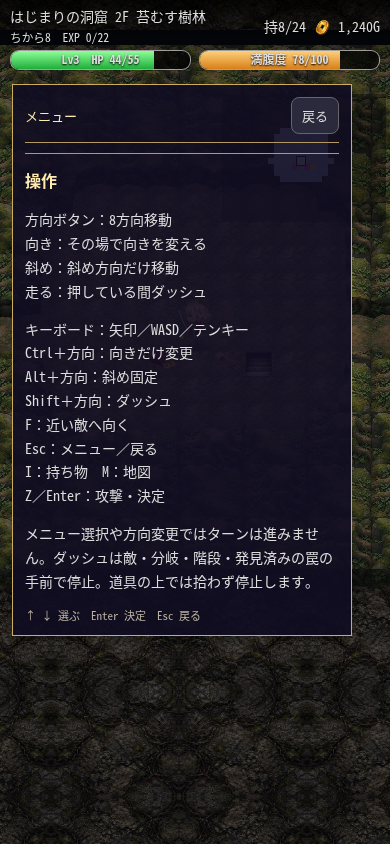
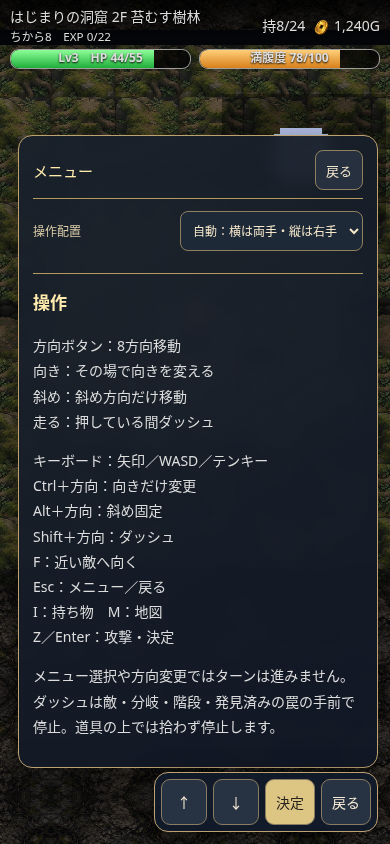
Design responsive two-hand and left/right one-hand controls and thumb-accessible menus

diff --git a/assets/ergonomic-ui.css b/assets/ergonomic-ui.css
@@ -1,0 +1,22 @@
+/* Warm metal, ink glass and large touch targets across all exploration layouts. */
+body{--ink:rgba(18,24,37,.88);--gold:#bca271;--glow:#f5df9d;--key:clamp(46px,6.3dvh,54px);--gap:5px;--pad:calc(var(--key)*3 + var(--gap)*2);--safe-bottom:max(12px,env(safe-area-inset-bottom));font-family:system-ui,-apple-system,"Noto Sans JP",sans-serif}
+.btn,#moveModes button{background:linear-gradient(145deg,rgba(51,59,72,.9),rgba(16,23,35,.91));color:#f7edd9;border:1px solid var(--gold);box-shadow:inset 0 1px 0 #ffffff18,0 3px 10px #0005;border-radius:12px;font-family:inherit;transition:background .08s,border-color .08s,transform .08s}
+.btn.on,#moveModes button:active{background:#78683d;border-color:#ffedac;transform:translateY(1px)}
+#moveModes button[aria-pressed=true]{background:#e3ca85;color:#29251d;border-color:#fff0b5;box-shadow:0 0 0 2px #e6c56c30}
+#pad{grid-template-columns:repeat(3,var(--key));grid-template-rows:repeat(3,var(--key));gap:var(--gap);bottom:calc(var(--safe-bottom) + 56px)}#pad .btn{width:var(--key);height:var(--key);font-size:25px}#pad .wait{font-size:13px;border-radius:12px}
+#act{bottom:calc(var(--safe-bottom) + 100px)}#atk{width:68px;height:68px;border-radius:24px;background:linear-gradient(145deg,#785137ed,#332b28ed);border:1px solid #e6c58e;font-size:16px;letter-spacing:.12em;box-shadow:inset 0 1px #fff4,0 4px 16px #0008}
+#moveModes{bottom:calc(var(--safe-bottom) + 66px + var(--pad));gap:5px}#moveModes button{min-width:46px;min-height:40px;font-size:12px}#controlHint{font-size:10px;bottom:45px;color:#dfd0ab}
+#lft{bottom:var(--safe-bottom);gap:5px;display:flex;flex-direction:row}#lft .btn,#lft #menubtn{width:51px;height:46px;min-height:46px;font-size:11px;border-radius:11px}#lft #bagbtn{font-size:11px}#lft #logbtn{display:none}#pick{color:#f5de99;border-color:#d8bc75}#quick{border-color:#a59882}#lft small{font-size:9px}
+body[data-hand=right] #pad,body[data-hand=right] #moveModes,body[data-hand=right] #lft{left:auto;right:max(12px,env(safe-area-inset-right))}body[data-hand=right] #act{left:auto;right:calc(max(12px,env(safe-area-inset-right)) + var(--pad) + 12px)}
+body[data-hand=left] #pad,body[data-hand=left] #moveModes,body[data-hand=left] #lft{right:auto;left:max(12px,env(safe-area-inset-left))}body[data-hand=left] #act{right:auto;left:calc(max(12px,env(safe-area-inset-left)) + var(--pad) + 12px)}
+body[data-hand=both] #pad,body[data-hand=both] #moveModes{right:auto;left:max(16px,env(safe-area-inset-left))}body[data-hand=both] #act{left:auto;right:max(24px,env(safe-area-inset-right));bottom:calc(var(--safe-bottom) + 108px)}body[data-hand=both] #atk{width:80px;height:80px}body[data-hand=both] #lft{left:auto;right:max(16px,env(safe-area-inset-right))}
+.layout-choice{display:flex;align-items:center;justify-content:space-between;gap:12px;padding:12px 0;font-size:12px;color:#dbcca8}.layout-choice select{min-height:40px;max-width:75%;background:#1e2938;color:#f3e6c9;border:1px solid #8f805f;border-radius:8px;padding:4px 8px;font-family:inherit;font-size:12px}
+#gameMenu,#cfg,#hist{background:linear-gradient(150deg,#19212bf5,#111826ee);border:1px solid var(--gold);border-radius:14px;box-shadow:0 16px 48px #0007;backdrop-filter:blur(8px);font-family:inherit}#gameMenu{padding:14px;top:auto;bottom:calc(var(--safe-bottom) + 64px);max-height:calc(100dvh - 150px);width:min(360px,calc(100vw - 24px));scroll-padding:12px}.menu-row{min-height:44px;border-radius:7px;font-family:inherit;font-size:15px;letter-spacing:.04em}.menu-row.selected{background:linear-gradient(90deg,#e0c57e,#e8d9ab);color:#29261f;border-color:#f3dfa1}#gameMenu header{font-size:15px}#gameMenu footer{display:none}#menuInfo{line-height:1.8;font-size:14px}#menuInfo h2{font-size:17px}
+body[data-hand=right] #gameMenu{left:auto;right:max(12px,env(safe-area-inset-right))}body[data-hand=left] #gameMenu{right:auto;left:max(12px,env(safe-area-inset-left))}
+#menuDock{display:none;position:fixed;z-index:20;bottom:var(--safe-bottom);gap:6px;padding:6px;background:#111b2bed;border:1px solid var(--gold);border-radius:14px;box-shadow:0 5px 24px #0008}#menuDock button{min-width:46px;height:46px;padding:0 10px;background:#273342;color:#f6ebd6;border:1px solid #8a7c62;border-radius:9px;font-family:inherit;font-size:14px;touch-action:manipulation}#menuDock .confirm{background:#ddc684;color:#28241d}body[data-hand=right] #menuDock,body[data-hand=both] #menuDock{right:max(12px,env(safe-area-inset-right))}body[data-hand=left] #menuDock{left:max(12px,env(safe-area-inset-left))}
+body:has(#gameMenu:not([hidden])) #menuDock,body:has(#bag:not([hidden])) #menuDock,body:has(#cfg:not([hidden])) #menuDock,body:has(#hist:not([hidden])) #menuDock,body:has(#stairsPrompt:not([hidden])) #menuDock{display:flex}
+body:has(#cfg:not([hidden])) #pad,body:has(#cfg:not([hidden])) #act,body:has(#cfg:not([hidden])) #lft,body:has(#hist:not([hidden])) #pad,body:has(#hist:not([hidden])) #act,body:has(#hist:not([hidden])) #lft,body:has(#stairsPrompt:not([hidden])) #pad,body:has(#stairsPrompt:not([hidden])) #act,body:has(#stairsPrompt:not([hidden])) #lft,body:has(#stairsPrompt:not([hidden])) #moveModes{visibility:hidden}
+#bag{bottom:76px}#bag .phead{border-color:#aa9468}#bag .sm,#cfg .sm,#hist .sm,#gameMenu .sm{min-height:40px;background:#27303e;border-color:#8f805f;color:#f1e5cd;border-radius:8px}#bag .tab{border-radius:6px;min-height:38px}#bag .tab.on{background:#d8c184;color:#27231c;border-color:#f4e1aa}#bagDetail .acts button{min-height:44px;background:#273342;border-color:#9c8966;color:#f5e7cb}#bagDetail .acts button.chosen{background:#dfc785;color:#24221c}
+#cfg,#hist{top:76px;bottom:82px}#stairsPrompt{bottom:90px;border-radius:14px;background:#161f2af5;border-color:var(--gold)}#stairsPrompt button{min-height:46px}
+@media(orientation:landscape){body{--key:44px}#gameMenu{max-height:calc(100dvh - 126px);bottom:78px}#gameMenu header .sm{min-height:36px;padding:4px 10px}.layout-choice{padding:7px 0}.menu-row{min-height:40px;padding:7px 12px}#cfg,#hist{top:48px}#bag{padding-bottom:0}#bag .phead{padding:5px 10px}#bag .tabs{padding:4px 10px}#bag .tab{min-height:32px}.bag-help{display:none}}
+@media(max-width:360px){body{--key:46px}#atk{width:58px;height:58px}#lft .btn,#lft #menubtn{width:46px}}

diff --git a/assets/ergonomic-ui.js b/assets/ergonomic-ui.js
@@ -1,0 +1,29 @@
+// Hand preference is independent of screen orientation and saved separately.
+let handPreference='auto';
+try{const saved=localStorage.getItem('fushigi_hand_layout_v1');if(['auto','both','right','left'].includes(saved))handPreference=saved;}catch(_){}
+function applyHandLayout(){
+ holdStop();const mode=handPreference==='auto'?(innerWidth>innerHeight?'both':'right'):handPreference;
+ document.body.dataset.hand=mode;document.body.dataset.handPreference=handPreference;
+ const select=document.getElementById('handLayout');if(select)select.value=handPreference;
+}
+function chooseHandLayout(value){if(!['auto','both','right','left'].includes(value))return;handPreference=value;try{localStorage.setItem('fushigi_hand_layout_v1',value);}catch(_){}applyHandLayout();}
+function touchMenuBack(){if(stairsOpen){chooseStairs(false);return;}if(whOpen){closeWh();render();return;}uiBack();}
+function touchMenuKey(key){
+ if(stairsOpen){if(key==='Enter')chooseStairs(stairsChoice===0);else {stairsChoice=1-stairsChoice;updateStairsChoice();}return;}
+ if(menuOpen&&!$('menuInfo').hidden){if(key==='Enter')$('menuGroundAction')?.click();else $('gameMenu').scrollBy({top:key==='ArrowUp'?-120:120,behavior:'smooth'});return;}
+ if(bagOpen){bagKey(key);return;}
+ if(cfgOpen){const buttons=[...$('cfgList').querySelectorAll('button')],i=buttons.indexOf(document.activeElement);if(key==='Enter'){if(i>=0)buttons[i].click();else buttons[0]?.focus();}else buttons[(i+(key==='ArrowDown'?1:buttons.length-1)+buttons.length)%buttons.length]?.focus();return;}
+ if(histOpen){$('histList').scrollBy({top:key==='ArrowUp'?-150:150,behavior:'smooth'});return;}
+ controlsKey({key,preventDefault(){}});
+ const selected=$('menuList').querySelector('.selected');selected?.scrollIntoView({block:'nearest'});
+}
+if(typeof document!=='undefined'&&document.body){
+ const header=$('gameMenu').querySelector('header');
+ header.insertAdjacentHTML('afterend','<label class="layout-choice">操作配置<select id="handLayout" aria-label="操作配置"><option value="auto">自動：横は両手・縦は右手</option><option value="both">両手</option><option value="right">右片手</option><option value="left">左片手</option></select></label>');
+ $('handLayout').onchange=ev=>chooseHandLayout(ev.target.value);
+ const dock=document.createElement('nav');dock.id='menuDock';dock.setAttribute('aria-label','メニュー操作');dock.innerHTML='<button data-nav="ArrowUp" aria-label="前を選ぶ">↑</button><button data-nav="ArrowDown" aria-label="次を選ぶ">↓</button><button data-nav="Enter" class="confirm">決定</button><button id="touchBack">戻る</button>';
+ document.body.append(dock);dock.onclick=ev=>{const b=ev.target.closest('button');if(!b)return;if(b.id==='touchBack')touchMenuBack();else touchMenuKey(b.dataset.nav);};
+ $('atk').setAttribute('aria-label','攻撃・決定');
+ document.querySelectorAll('.dp').forEach(b=>{const [x,y]=b.dataset.d.split(',').map(Number);b.setAttribute('aria-label',x||y?({ '-1,-1':'左上','0,-1':'上','1,-1':'右上','-1,0':'左','1,0':'右','-1,1':'左下','0,1':'下','1,1':'右下'}[b.dataset.d]+'へ移動'):'足踏み・向き');});
+ addEventListener('resize',applyHandLayout);applyHandLayout();
+}

diff --git a/fushigi-controls-ui-v1/review.html b/fushigi-controls-ui-v1/review.html
@@ -80,6 +80,7 @@ canvas{display:block;touch-action:none}
 .set{display:flex;align-items:center;gap:10px;padding:12px 10px;border-bottom:1px solid #2a2a3a}
 .set .lab{flex:1;font-size:15px}.set small{color:#99a;font-size:12px}
 </style>
+<link rel="stylesheet" href="assets/ergonomic-ui.css?v=hands-v1">
 <style>#reviewTools{position:fixed;z-index:9;right:12px;top:48px;display:flex;gap:5px;max-width:95vw;padding:5px;background:#140f23bd;border:1px solid #b99751;box-sizing:border-box;overflow-x:auto}#reviewTools select,#reviewTools button{font:12px monospace;color:#f6e9c8;background:#2a2038;border:1px solid #a68b56;padding:7px 5px;touch-action:manipulation}body.menu-visible #reviewTools,body.bag-visible #reviewTools{display:none}@media(orientation:portrait){#reviewTools{top:74px;left:10px;right:10px}}</style></head>
 <body>
 <div id="hud"><span id="where"></span><span id="bagc"></span><div id="bars"><div class="bar"><i id="hpf"></i><b id="hp"></b></div><div class="bar bl" id="blbar"><i id="blf"></i><b id="belly"></b></div></div></div>
@@ -2483,5 +2484,6 @@ boot();
 if (typeof Image !== 'undefined') { ApprovedHero.load(render); HeroActions.load(render); loadDungeonArt(); MonsterSprites.load(render); DungeonExperience.load(render); }
 </script>
 <script src="assets/controls-ui.js?v=controls-v1"></script>
+<script src="assets/ergonomic-ui.js?v=hands-v1"></script>
 <script src="fushigi-experience-v1/review-tools.js"></script></body>
 </html>

diff --git a/index.html b/index.html
@@ -79,6 +79,7 @@ canvas{display:block;touch-action:none}
 .set{display:flex;align-items:center;gap:10px;padding:12px 10px;border-bottom:1px solid #2a2a3a}
 .set .lab{flex:1;font-size:15px}.set small{color:#99a;font-size:12px}
 </style>
+<link rel="stylesheet" href="assets/ergonomic-ui.css?v=hands-v1">
 </head>
 <body>
 <div id="hud"><span id="where"></span><span id="bagc"></span><div id="bars"><div class="bar"><i id="hpf"></i><b id="hp"></b></div><div class="bar bl" id="blbar"><i id="blf"></i><b id="belly"></b></div></div></div>
@@ -2482,5 +2483,6 @@ boot();
 if (typeof Image !== 'undefined') { ApprovedHero.load(render); HeroActions.load(render); loadDungeonArt(); MonsterSprites.load(render); DungeonExperience.load(render); }
 </script>
 <script src="assets/controls-ui.js?v=controls-v1"></script>
+<script src="assets/ergonomic-ui.js?v=hands-v1"></script>
 </body>
 </html>

diff --git a/fushigi-controls-ui-v1/check_hands.py b/fushigi-controls-ui-v1/check_hands.py
@@ -1,0 +1,31 @@
+from pathlib import Path
+import json
+from playwright.sync_api import sync_playwright
+P=Path(__file__).resolve().parent
+report=[]
+with sync_playwright() as p:
+ b=p.chromium.launch(executable_path='/usr/bin/chromium',args=['--no-sandbox'])
+ for name,w,h in [('portrait',390,844),('landscape',844,390),('small',320,568)]:
+  page=b.new_page(viewport={'width':w,'height':h});errors=[];page.on('pageerror',lambda e:errors.append(str(e)))
+  page.goto('http://127.0.0.1:8000/fushigi-controls-ui-v1/review.html');page.wait_for_function('window.ExperienceReview && scene==="dungeon" && typeof chooseHandLayout==="function"')
+  for hand in ['both','right','left']:
+   page.evaluate("ExperienceReview.setup('room')");page.evaluate('(h)=>chooseHandLayout(h)',hand)
+   boxes=page.evaluate("""()=>{const ids=['pad','atk','lft','moveModes'];return Object.fromEntries(ids.map(id=>{const r=document.getElementById(id).getBoundingClientRect();return [id,{x:r.x,y:r.y,w:r.width,h:r.height}]}));}""")
+   for k,r in boxes.items():assert r['x']>=0 and r['y']>=0 and r['x']+r['w']<=w+1 and r['y']+r['h']<=h+1,(name,hand,k,r)
+   assert (boxes['pad']['x']<w/2) if hand in ['left','both'] else (boxes['pad']['x']>w/2-30)
+   page.screenshot(path=str(P/f'{name}-{hand}-layout.png'))
+   page.locator('#menubtn').click();assert page.locator('#gameMenu').is_visible()
+   page.locator('#menuDock [data-nav="ArrowDown"]').click();assert page.evaluate('menuIndex')==1
+   page.locator('#menuDock [data-nav="Enter"]').click();assert page.locator('#menuInfo').is_visible()
+   page.locator('#touchBack').click();page.locator('#menuDock [data-nav="ArrowUp"]').click();page.locator('#menuDock [data-nav="Enter"]').click();assert page.locator('#bag').is_visible()
+   page.screenshot(path=str(P/f'{name}-{hand}-bag.png'))
+   page.locator('#touchBack').click();assert page.locator('#gameMenu').is_visible();page.screenshot(path=str(P/f'{name}-{hand}-menu.png'))
+   page.locator('#touchBack').click();assert not page.evaluate('menuOpen')
+   page.evaluate('menuIndex=0')
+   assert not errors,errors
+   report.append({'viewport':name,'hand':hand,'onScreen':True,'touchMenuFlow':True})
+  page.reload();page.wait_for_function('typeof chooseHandLayout==="function"');assert page.evaluate('handPreference')=='left'
+  page.evaluate("chooseHandLayout('auto')");assert page.locator('body').get_attribute('data-hand')==('both' if w>h else 'right')
+  page.close()
+ b.close()
+(P/'hands-validation.json').write_text(json.dumps(report,indent=2)+'\n');print('ALL OK: 3 sizes x 3 hand layouts, touch menu flow, persistence, auto orientation')

diff --git a/docs/SPRITE_PRODUCTION_HANDOVER.md b/docs/SPRITE_PRODUCTION_HANDOVER.md
@@ -1,5 +1,12 @@
 # 承認済みキャラクター・武器・盾の制作引き継ぎ
 
+## 操作配置とUIデザイン（2026-10-21）
+
+ユーザーGOでPR #8を継続更新。濃紺の半透明・金の縁のUIに統一し、両手／右片手／左片手を `assets/ergonomic-ui.js` とCSSで追加。自動は横=両手、縦=右片手。メニュー内「操作配置」で横でも片手を選べる。選択は本編セーブと別キーで保存。両手は左移動・右攻撃、片手は移動・攻撃・主要ボタンを指定の手の側へ集約。履歴はメニューへまとめる。メニュー下部に↑↓／決定／戻るを配置し、持ち物の操作選択にも使用可能。設定・履歴・階段にも下部操作を共通化。画面回転時は連続移動を中断。
+
+3サイズ×3配置で画面内収容・タッチの決定／戻る・設定保存・自動配置を検証。画面と `hands-validation.json` は `fushigi-controls-ui-v1/`。main未反映の確認用初版。店のシステム／店主と追加モンスターは後回しのまま。
+
+
 ## 次工程：移動・メニュー初版（2026-10-21）
 
 ユーザー指示によりダンジョン内店舗の新システム／店主デザインは後回し。`feat/controls-shop-ux-v1` で移動と店以外のUIを実装。`assets/controls-ui.js` とCSSで、その場の向き変更・斜め固定・ダッシュ、統一メニュー（持ち物／足元／状態／地図／履歴／設定／操作）を追加。タッチはモードを選んで方向、キーはCtrl/Alt/Shift＋方向。Fで見えている近い敵へ振り向く。方向変更は0ターン。ダッシュは道具を拾わず停止し、敵・分岐・階段・既知罠などで停止。離す／メニュー／フォーカス喪失でも停止し、押し続けによる再開を抑制する。

diff --git a/docs/HANDOVER.md b/docs/HANDOVER.md
@@ -1,5 +1,12 @@
 # 引き継ぎ資料（Fushigi：シレン風・個人用）
 
+## 操作配置とUIデザイン（2026-10-21）
+
+ユーザーGOでPR #8を継続更新。濃紺の半透明・金の縁のUIに統一し、両手／右片手／左片手を `assets/ergonomic-ui.js` とCSSで追加。自動は横=両手、縦=右片手。メニュー内「操作配置」で横でも片手を選べる。選択は本編セーブと別キーで保存。両手は左移動・右攻撃、片手は移動・攻撃・主要ボタンを指定の手の側へ集約。履歴はメニューへまとめる。メニュー下部に↑↓／決定／戻るを配置し、持ち物の操作選択にも使用可能。設定・履歴・階段にも下部操作を共通化。画面回転時は連続移動を中断。
+
+3サイズ×3配置で画面内収容・タッチの決定／戻る・設定保存・自動配置を検証。画面と `hands-validation.json` は `fushigi-controls-ui-v1/`。main未反映の確認用初版。店のシステム／店主と追加モンスターは後回しのまま。
+
+
 ## 次工程：移動・メニュー初版（2026-10-21）
 
 ユーザー指示によりダンジョン内店舗の新システム／店主デザインは後回し。`feat/controls-shop-ux-v1` で移動と店以外のUIを実装。`assets/controls-ui.js` とCSSで、その場の向き変更・斜め固定・ダッシュ、統一メニュー（持ち物／足元／状態／地図／履歴／設定／操作）を追加。タッチはモードを選んで方向、キーはCtrl/Alt/Shift＋方向。Fで見えている近い敵へ振り向く。方向変更は0ターン。ダッシュは道具を拾わず停止し、敵・分岐・階段・既知罠などで停止。離す／メニュー／フォーカス喪失でも停止し、押し続けによる再開を抑制する。

diff --git a/fushigi-controls-ui-v1/README.md b/fushigi-controls-ui-v1/README.md
@@ -25,3 +25,7 @@ node tests/harness.js index.html tests/test_mvp.js
 ```
 
 実ブラウザ844×390／390×844／1280×720で `tests/test_controls_ui.js` を実行し、方向変更、斜め制約、金／矢の上で拾わず止まる、既知罠／階段／敵／分岐で停止、停止後の自動再開抑止、メニューで中断、戻る階層、Ctrlのキー操作とタッチ、設定項目選択を検証。画面とvalidation.jsonを保存。既存の階段・持ち物などの3サイズ検証も成功。見た目は初版としてユーザー確認対象。
+
+## 両手・片手のデザイン更新
+
+濃紺ガラスと金の縁へ統一。メニューの「操作配置」で自動／両手／右片手／左片手を選ぶ。自動は横で両手、縦で右片手。横での片手選択も保存される。方向パッドそのものを反転せず、グループの配置を左右で変える。押下とモード固定中を色で区別。常設の履歴をメニューへ集約し、メニュー下部の選択・決定・戻るを片手の側に置く。確認は `python fushigi-controls-ui-v1/check_hands.py`。390×844、844×390、320×568の3サイズ×3配置。画面内収容・タッチのメニュー階層・保存・自動選択を検証。実機での握りやすさはユーザー確認対象。
